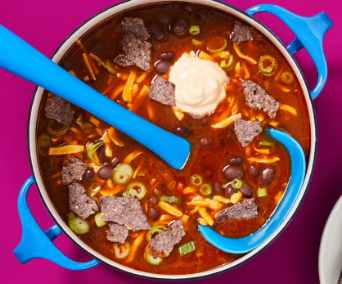
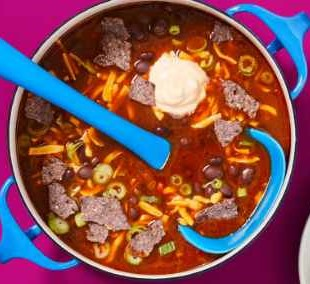
corrijo responsive

diff --git a/estilos/estilos.css b/estilos/estilos.css
@@ -195,11 +195,12 @@ padding-bottom: 50px;
 }
 
 .col {
-    margin: 4vh;
+   padding: 2vh;
+   padding-bottom: 8vh;
 }
 
 .col img {
-    padding: 4vh;
+    padding-bottom: 4vh;
     border-radius: 50px;
 
 }
